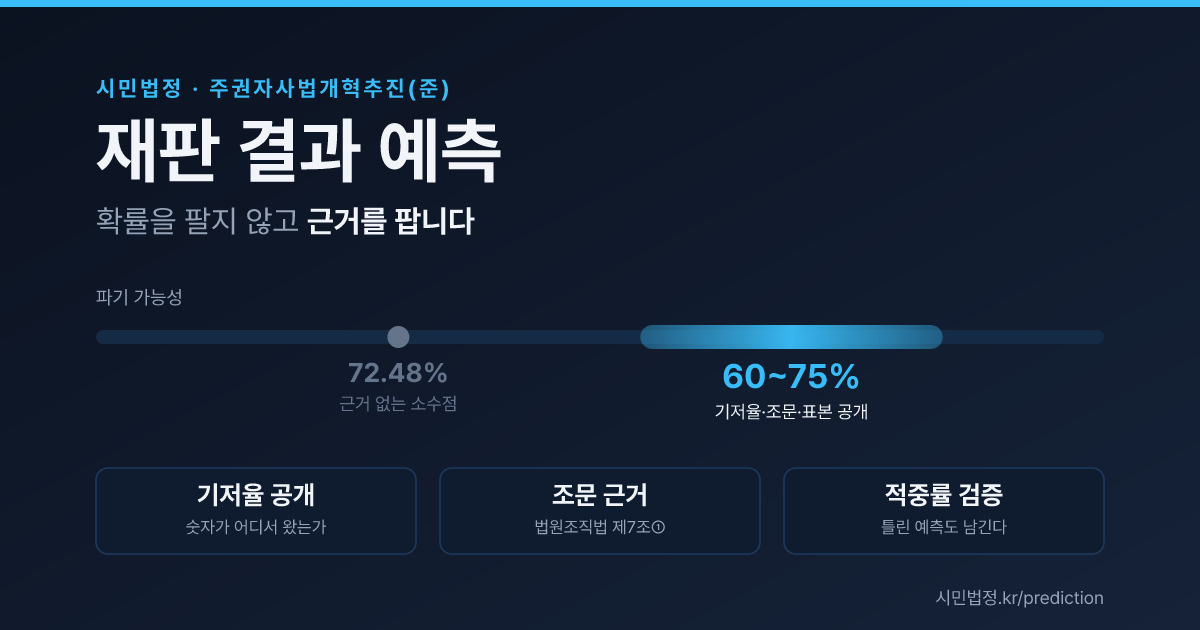
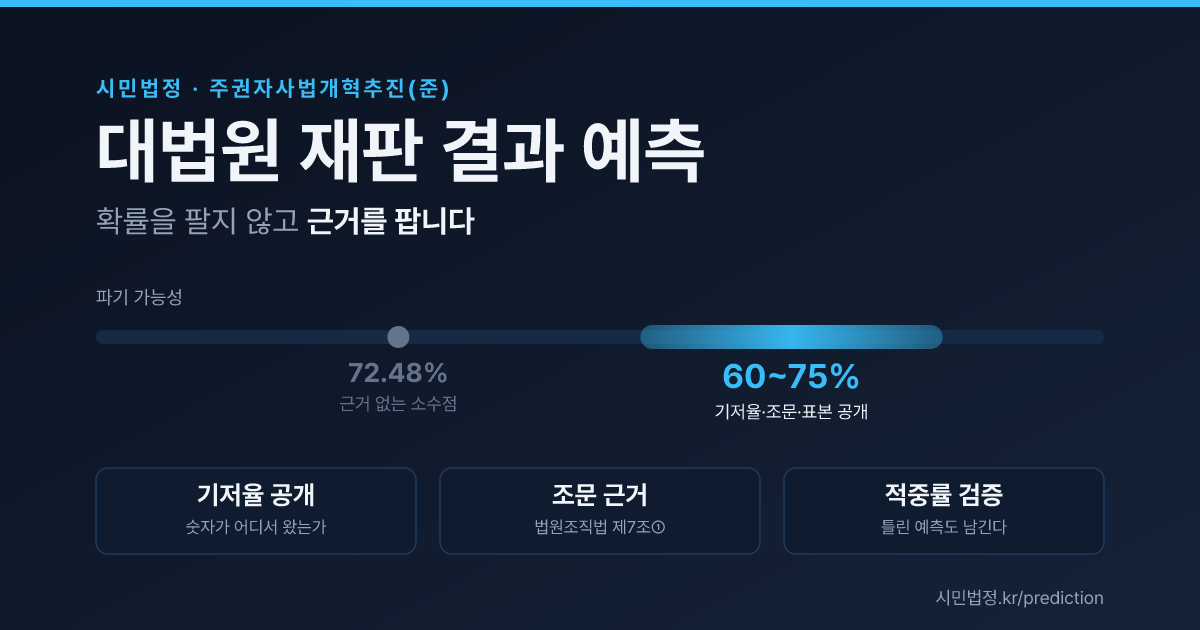
style(예측): 「재판 결과 예측」을 「대법원 재판 결과 예측」으로
어느 법원의 재판인지가 제목에 드러나지 않아 바꿨다. 표시되는 곳 아홉 군데를
모두 맞췄다.

  h1 · SEO 제목 · SNS 공유 제목        src/pages/CasePrediction.jsx
  메인 홈페이지 네비게이션(드롭다운·모바일)  src/App.jsx
  서브페이지 공통 헤더(드롭다운·모바일)     src/components/Header.jsx
  SSR 메타 제목                        functions/index.js
  OG 이미지 제목                       scripts/gen-og-prediction.mjs

네비게이션은 App.jsx 와 Header.jsx 두 곳을 모두 고쳤다. 한쪽만 고치면 메인
페이지와 서브페이지의 메뉴가 달라진다(2026-03-20 사건).

OG 이미지를 다시 생성해 제목이 넘치지 않는 것을 확인했다. 72px 로 늘어난
제목이 캔버스 안에 들어온다.

⚠ functions/index.js 의 SSR 메타 제목은 **함수 배포가 있어야 반영된다.**
   호스팅만 배포하면 브라우저 화면은 바뀌지만 카카오톡·페이스북 등 크롤러가
   읽는 제목은 옛 것으로 남는다. functions 배포는 functions/.env 가 있는
   데스크탑에서만 가능하다.

Claude-Session: https://claude.ai/code/session_01Tk6fdTFNaJGYTTow9hPdhd

Changed region(s): [[0.0617, 0.181, 0.5858, 0.3016]]

diff --git a/src/pages/CasePrediction.jsx b/src/pages/CasePrediction.jsx
@@ -39,7 +39,7 @@ import {
 const partialShare = () => BASE_RATES.partialShareAmongReversals?.value ?? null;
 
 // =============================================================================
-// 재판 결과 예측 — 우리 예측을 낸다
+// 대법원 재판 결과 예측 — 우리 예측을 낸다
 //
 // 설계 원칙
 //  1. 모르는 값이 있어도 멈추지 않는다. 구간으로 내고 무엇을 재야 하는지 지목한다.
@@ -1352,7 +1352,7 @@ export default function CasePrediction() {
     return (
         <div className="min-h-screen bg-gray-50">
             <SEOHead
-                title="재판 결과 예측 — 근거를 공개하는 분석 | 시민법정"
+                title="대법원 재판 결과 예측 — 근거를 공개하는 분석 | 시민법정"
                 description="대법원 사건의 결론을 확률로 제시하되, 그 확률이 어디서 나왔는지를 함께 공개합니다. 기저율과 조문 근거를 밝히고, 예측 적중률을 검증해 남깁니다."
                 image="https://siminbupjung-blog.web.app/og-prediction.png"
             />
@@ -1361,7 +1361,7 @@ export default function CasePrediction() {
             {/* 헤더가 fixed top-0 이므로 상단 여백이 필요하다. 다른 페이지와 같은 pt-28. */}
             <main className="max-w-4xl mx-auto px-4 pt-28 pb-16">
                 <div className="mb-10">
-                    <h1 className="text-4xl md:text-5xl font-bold text-gray-900 mb-4">재판 결과 예측</h1>
+                    <h1 className="text-4xl md:text-5xl font-bold text-gray-900 mb-4">대법원 재판 결과 예측</h1>
                     <p className="text-lg md:text-xl text-gray-600 leading-relaxed">
                         확률을 팔지 않고 근거를 팝니다. 숫자보다 <strong className="text-gray-800">그 숫자가 어디서 나왔는지</strong>를 먼저 보여주고,
                         예측한 뒤에는 <strong className="text-gray-800">맞았는지 틀렸는지를 남깁니다.</strong>
@@ -1406,7 +1406,7 @@ export default function CasePrediction() {
 
                 <div className="mt-10">
                     <SNSShareBar
-                        title="재판 결과 예측 — 근거를 공개하는 분석"
+                        title="대법원 재판 결과 예측 — 근거를 공개하는 분석"
                         url="https://xn--lg3b0kt4n41f.kr/prediction"
                     />
                 </div>

diff --git a/src/App.jsx b/src/App.jsx
@@ -912,7 +912,7 @@ export default function App() {
                                         <Link to="/reform-analysis" className="block px-4 py-2 hover:bg-gray-100 text-gray-700 hover:text-blue-600">사법개혁안 비교</Link>
                                         <Link to="/law-database" className="block px-4 py-2 hover:bg-gray-100 text-gray-700 hover:text-blue-600">법령DB</Link>
                                         <Link to="/judicial-network" className="block px-4 py-2 hover:bg-gray-100 text-gray-700 hover:text-blue-600">관계도</Link>
-                                        <Link to="/prediction" className="block px-4 py-2 hover:bg-gray-100 text-gray-700 hover:text-blue-600 whitespace-nowrap">재판 결과 예측</Link>
+                                        <Link to="/prediction" className="block px-4 py-2 hover:bg-gray-100 text-gray-700 hover:text-blue-600 whitespace-nowrap">대법원 재판 결과 예측</Link>
                                     </div>
                                 </div>
                             </div>
@@ -1061,7 +1061,7 @@ export default function App() {
                                 <Link to="/reform-analysis" onClick={() => setMobileMenuOpen(false)} className="block w-full text-left px-6 py-2 hover:bg-gray-100 transition">사법개혁안 비교</Link>
                                 <Link to="/law-database" onClick={() => setMobileMenuOpen(false)} className="block w-full text-left px-6 py-2 hover:bg-gray-100 transition">법령DB</Link>
                                 <Link to="/judicial-network" onClick={() => setMobileMenuOpen(false)} className="block w-full text-left px-6 py-2 hover:bg-gray-100 transition">관계도</Link>
-                                <Link to="/prediction" onClick={() => setMobileMenuOpen(false)} className="block w-full text-left px-6 py-2 hover:bg-gray-100 transition">재판 결과 예측</Link>
+                                <Link to="/prediction" onClick={() => setMobileMenuOpen(false)} className="block w-full text-left px-6 py-2 hover:bg-gray-100 transition">대법원 재판 결과 예측</Link>
                             </div>
 
                             {/* 모바일 미디어 서브메뉴 */}

diff --git a/src/components/Header.jsx b/src/components/Header.jsx
@@ -176,7 +176,7 @@ export default function Header() {
                                         to="/prediction"
                                         className="block px-4 py-2 hover:bg-gray-100 text-gray-700 hover:text-blue-600 whitespace-nowrap"
                                     >
-                                        재판 결과 예측
+                                        대법원 재판 결과 예측
                                     </Link>
                                 </div>
                             </div>
@@ -274,7 +274,7 @@ export default function Header() {
                                 <Link to="/reform-analysis" className="block hover:text-blue-600 transition font-medium mb-2" onClick={() => setMobileMenuOpen(false)}>사법개혁안 비교</Link>
                                 <Link to="/law-database" className="block hover:text-blue-600 transition font-medium mb-2" onClick={() => setMobileMenuOpen(false)}>법령DB</Link>
                                 <Link to="/judicial-network" className="block hover:text-blue-600 transition font-medium mb-2" onClick={() => setMobileMenuOpen(false)}>관계도</Link>
-                                <Link to="/prediction" className="block hover:text-blue-600 transition font-medium" onClick={() => setMobileMenuOpen(false)}>재판 결과 예측</Link>
+                                <Link to="/prediction" className="block hover:text-blue-600 transition font-medium" onClick={() => setMobileMenuOpen(false)}>대법원 재판 결과 예측</Link>
                             </div>
                             {/* 모바일 미디어 서브메뉴 */}
                             <div className="pl-4 border-l-2 border-gray-200">

diff --git a/functions/index.js b/functions/index.js
@@ -3473,11 +3473,11 @@ exports.judicialNetworkPage = createStaticPageHandler(
     'https://siminbupjung-blog.web.app/%EA%B4%80%EA%B3%84%EB%8F%84.png'
 );
 
-// 재판 결과 예측 — 확률이 아니라 근거를 공개하는 분석
+// 대법원 재판 결과 예측 — 확률이 아니라 근거를 공개하는 분석
 // OG 이미지는 scripts/gen-og-prediction.mjs 가 빌드 시점에 생성한다(prebuild 훅).
 exports.predictionPage = createStaticPageHandler(
     '/prediction',
-    '재판 결과 예측 — 근거를 공개하는 분석 | 시민법정',
+    '대법원 재판 결과 예측 — 근거를 공개하는 분석 | 시민법정',
     '대법원 사건의 결론을 확률로 제시하기 전에, 그 확률이 어디서 나왔는지를 먼저 공개합니다. 기저율과 조문 근거를 밝히고, 예측 적중률을 검증해 남깁니다.',
     'https://siminbupjung-blog.web.app/og-prediction.png',
     1200,

diff --git a/src/data/predictions.js b/src/data/predictions.js
@@ -1,5 +1,5 @@
 /**
- * 재판 결과 예측 데이터
+ * 대법원 재판 결과 예측 데이터
  *
  * 목적: 우리 스스로 예측을 낸다.
  *
